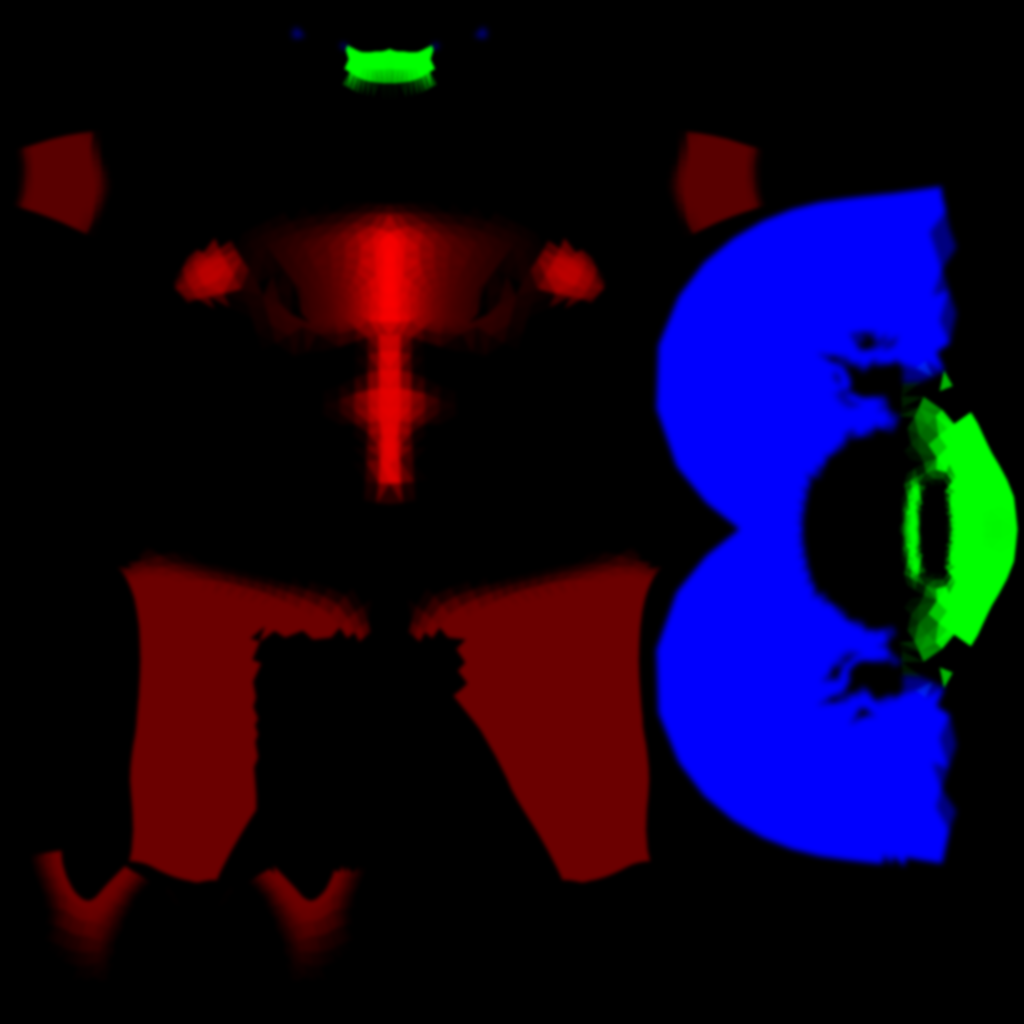
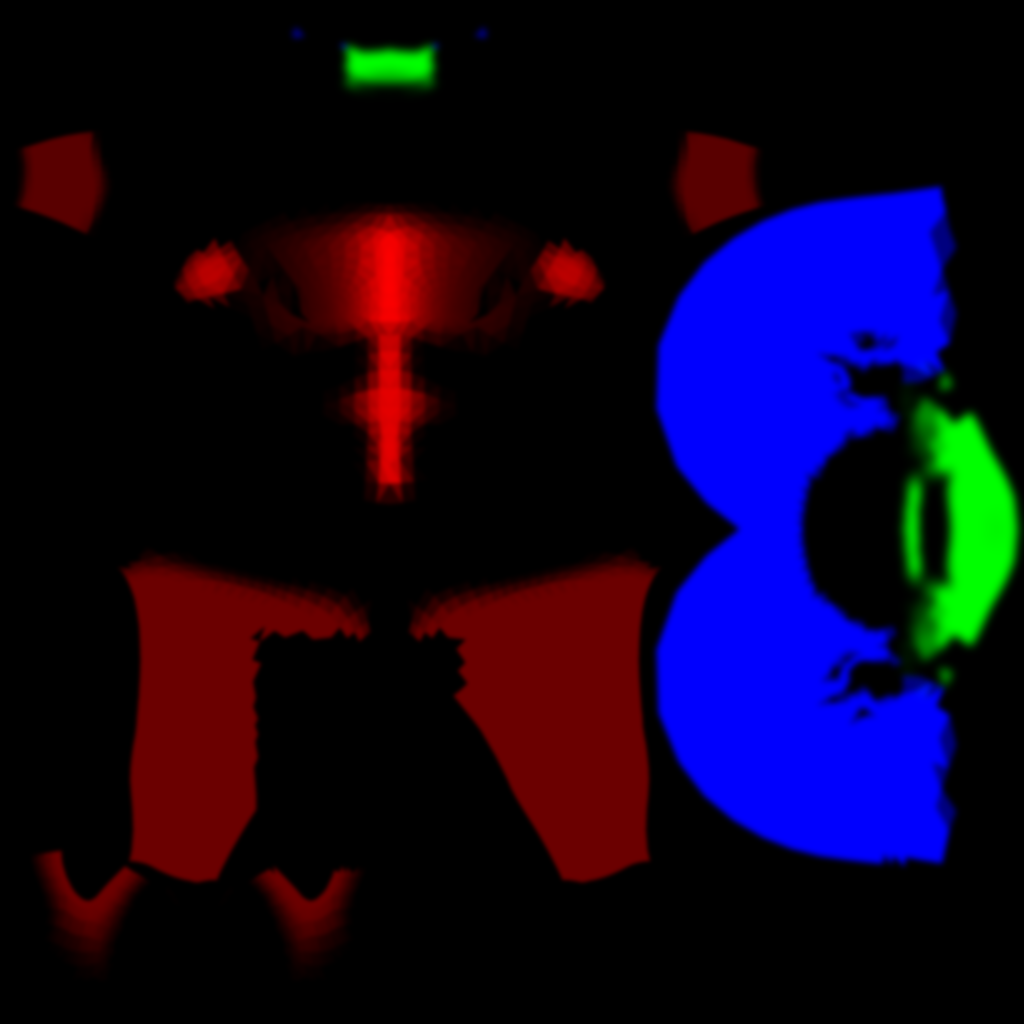
그래픽 최대 개선: 방 반사 탐침, 벽·바닥·커튼·밧줄 노멀맵, 대비 곡선, 아이라이트·각막 반사, 수염 지글거림 제거, 방 디테일(액자·스위치·콘센트)
Claude-Session: https://claude.ai/code/session_01NhCrPAAx57r2gVvWtmkJiC

Changed region(s): [[0.875, 0.3438, 0.9688, 0.6875], [0.3125, 0.0312, 0.4375, 0.0938], [0.9688, 0.4375, 1.0, 0.5938]]

diff --git a/web/js/room.js b/web/js/room.js
@@ -21,6 +21,15 @@ function photoTex(url, mat, repeat, key = 'map', mirror = true) {
   }, undefined, () => {});
 }
 
+// 노멀맵(tools/make_normals.py 로 사진에서 계산): 무늬·결·짜임이 빛에 따라 도드라진다
+// 노멀맵은 거울 반복을 쓰면 칸마다 요철 방향이 뒤집혀 줄무늬가 생긴다 → 일반 반복
+function normalTex(url, mat, repeat, scale = 1, mirror = false) {
+  new THREE.TextureLoader().load(url, (t) => {
+    t.wrapS = t.wrapT = mirror ? THREE.MirroredRepeatWrapping : THREE.RepeatWrapping; t.repeat.set(...repeat); t.anisotropy = 8;
+    mat.normalMap = t; mat.normalScale = new THREE.Vector2(scale, scale); mat.needsUpdate = true;
+  }, undefined, () => {});
+}
+
 export function makeRoom(scene) {
   const R = { group: new THREE.Group(), lights: {} };
   scene.add(R.group);
@@ -41,17 +50,17 @@ export function makeRoom(scene) {
       g.fillStyle = 'rgba(15,8,3,0.8)'; g.fillRect(0, (i * h) / rows, w, 2);
     }
   }, [2.5, 2.5]);
-  const floor = new THREE.Mesh(new THREE.PlaneGeometry(W, D), new THREE.MeshStandardMaterial({ map: floorTex, roughness: 0.62 }));
+  const floor = new THREE.Mesh(new THREE.PlaneGeometry(W, D), new THREE.MeshStandardMaterial({ map: floorTex, roughness: 0.4 }) /* 코팅된 마루: 램프와 창이 은은히 비친다 */);
   floor.rotation.x = -Math.PI / 2; floor.position.z = cz; floor.receiveShadow = true; R.group.add(floor);
-  photoTex('./assets/floor.webp', floor.material, [2.1, 3.6]);
+  photoTex('./assets/floor.webp', floor.material, [2.1, 3.6]); normalTex('./assets/floor_n.webp', floor.material, [2.1, 3.6], 0.6);
   // 벽지: 따뜻한 회색, 아주 옅은 세로 무늬
   const wallTex = canvasTex(512, 512, (g, w, h) => {
     g.fillStyle = '#b8aa98'; g.fillRect(0, 0, w, h);
     for (let x = 0; x < w; x += 16) { g.fillStyle = `rgba(255,255,255,${0.025 + (x % 64 === 0 ? 0.03 : 0)})`; g.fillRect(x, 0, 6, h); }
     for (let k = 0; k < 4000; k++) { g.fillStyle = `rgba(0,0,0,${rnd() * 0.04})`; g.fillRect(rnd() * w, rnd() * h, 1, 1); }
   }, [3, 1.5]);
-  const wallMat = new THREE.MeshStandardMaterial({ map: wallTex, roughness: 0.92 });
-  photoTex('./assets/wall.webp', wallMat, [3, 2.5]);
+  const wallMat = new THREE.MeshStandardMaterial({ map: wallTex, roughness: 0.92, color: new THREE.Color(0.86, 0.84, 0.83) }); // 따뜻한 조명에 벽이 노랗게 뜨지 않게
+  photoTex('./assets/wall.webp', wallMat, [3, 2.5]); normalTex('./assets/wall_n.webp', wallMat, [3, 2.5], 0.8);
   const wall = (w, x, z, ry) => { const m = new THREE.Mesh(new THREE.PlaneGeometry(w, H), wallMat); m.position.set(x, H / 2, z); m.rotation.y = ry; m.receiveShadow = true; R.group.add(m); return m; };
   wall(W, 0, cz - D / 2, 0); wall(W, 0, cz + D / 2, Math.PI); wall(D, -W / 2, cz, Math.PI / 2); wall(D, W / 2, cz, -Math.PI / 2);
   // 걸레받이
@@ -84,7 +93,7 @@ export function makeRoom(scene) {
   }
   // 커튼(반쯤 닫힘)
   const curtainTex = canvasTex(256, 256, (g, w, h) => { for (let x = 0; x < w; x++) { const v = 105 + 30 * Math.sin(x * 0.19) + 10 * Math.sin(x * 0.53); g.fillStyle = `rgb(${v * 0.7},${v * 0.55},${v * 0.48})`; g.fillRect(x, 0, 1, h); } });
-  const curtainMat = new THREE.MeshStandardMaterial({ map: curtainTex, roughness: 1, side: THREE.DoubleSide }); photoTex('./assets/curtain.webp', curtainMat, [0.6, 1.4]);
+  const curtainMat = new THREE.MeshStandardMaterial({ map: curtainTex, roughness: 1, side: THREE.DoubleSide }); photoTex('./assets/curtain.webp', curtainMat, [0.6, 1.4]); normalTex('./assets/curtain_n.webp', curtainMat, [0.6, 1.4], 1.0);
   const curtain = (x) => { const cm = curtainMat; const c = new THREE.Mesh(new THREE.PlaneGeometry(0.55, 1.95, 24, 1), cm); const p = c.geometry.attributes.position; for (let i = 0; i < p.count; i++) p.setZ(i, Math.sin(p.getX(i) * 28) * 0.03); c.geometry.computeVertexNormals(); c.position.set(x, 1.32, cz - D / 2 + 0.09); c.castShadow = true; R.group.add(c); };
   curtain(-1.62); curtain(-0.62);
   const moon = new THREE.DirectionalLight(0x6f8fd0, 0.25); moon.position.set(-1.0, 1.8, cz - D / 2 - 1); moon.target.position.set(0, 0, 0.5); R.group.add(moon, moon.target); R.lights.moon = moon;
@@ -111,6 +120,20 @@ export function makeRoom(scene) {
   const clkMat = new THREE.MeshStandardMaterial({ map: clockFace, roughness: 0.6 }); photoTex('./assets/clock.webp', clkMat, [1, 1], 'map', false);
   const clk = new THREE.Mesh(new THREE.CircleGeometry(0.17, 40), clkMat);
   clk.position.set(0.95, 2.0, cz - D / 2 + 0.02); R.group.add(clk);
+  // 생활 디테일: 결혼사진 액자(사용자 제작 lock.webp), 스위치·콘센트, 천장 등 받침
+  { const fr = new THREE.Mesh(new THREE.BoxGeometry(0.34, 0.46, 0.025), new THREE.MeshStandardMaterial({ color: 0x2a1d14, roughness: 0.45 }));
+    fr.position.set(1.62, 1.42, cz - D / 2 + 0.014); fr.castShadow = true; R.group.add(fr);
+    const ph = new THREE.Mesh(new THREE.PlaneGeometry(0.28, 0.4), new THREE.MeshPhysicalMaterial({ color: 0xffffff, roughness: 0.35, clearcoat: 0.6, clearcoatRoughness: 0.08 }));
+    ph.position.set(1.62, 1.42, cz - D / 2 + 0.028); R.group.add(ph);
+    photoTex('./assets/lock.webp', ph.material, [1, 0.8], 'map', false); // 세로 사진의 아래쪽(두 사람)만
+    R.photo = ph;
+    const plate = new THREE.MeshStandardMaterial({ color: 0xe8e2d6, roughness: 0.5 });
+    const sw = new THREE.Mesh(new THREE.BoxGeometry(0.08, 0.12, 0.012), plate); sw.position.set(W / 2 - 0.006, 1.2, cz + 1.4); sw.rotation.y = -Math.PI / 2; R.group.add(sw);
+    const tg = new THREE.Mesh(new THREE.BoxGeometry(0.03, 0.05, 0.012), plate); tg.position.set(W / 2 - 0.014, 1.2, cz + 1.4); tg.rotation.y = -Math.PI / 2; R.group.add(tg);
+    for (const [x, z, ry] of [[-W / 2 + 0.006, cz - 0.8, Math.PI / 2], [1.9, cz - D / 2 + 0.006, 0]]) {
+      const ou = new THREE.Mesh(new THREE.BoxGeometry(0.075, 0.075, 0.012), plate); ou.position.set(x, 0.3, z); ou.rotation.y = ry; R.group.add(ou);
+    }
+    const rose = new THREE.Mesh(new THREE.CylinderGeometry(0.07, 0.08, 0.02, 32), plate); rose.position.set(0.62, H - 0.01, -0.15); R.group.add(rose); }
   const hand = (len, w, c) => { const m = new THREE.Mesh(new THREE.BoxGeometry(w, len, 0.004), new THREE.MeshBasicMaterial({ color: c })); m.geometry.translate(0, len / 2, 0); m.position.set(0.95, 2.0, cz - D / 2 + 0.03); R.group.add(m); return m; };
   R.clockH = hand(0.09, 0.012, 0x222222); R.clockM = hand(0.115, 0.008, 0x222222);
   R.setClock = (min) => { const h = (min / 60) % 12; R.clockH.rotation.z = -(h / 12) * Math.PI * 2; R.clockM.rotation.z = -((min % 60) / 60) * Math.PI * 2; };
@@ -122,7 +145,7 @@ export function makeRoom(scene) {
   const stem = new THREE.Mesh(new THREE.CylinderGeometry(0.006, 0.006, 0.03, 8), metal); stem.position.set(0, H - 0.025, 0.02); R.group.add(stem);
   R.hookPoint = new THREE.Vector3(0, H - 0.09, 0.02);
   const ropeTex = canvasTex(64, 256, (g, w, h) => { g.fillStyle = '#b39b74'; g.fillRect(0, 0, w, h); for (let y = 0; y < h; y += 8) { g.strokeStyle = 'rgba(70,52,30,0.6)'; g.lineWidth = 3; g.beginPath(); g.moveTo(0, y); g.lineTo(w, y + 8); g.stroke(); } }, [1, 30]);
-  const ropeMat = new THREE.MeshStandardMaterial({ map: ropeTex, roughness: 0.95 }); photoTex('./assets/rope.webp', ropeMat, [10, 1]);
+  const ropeMat = new THREE.MeshStandardMaterial({ map: ropeTex, roughness: 0.95 }); photoTex('./assets/rope.webp', ropeMat, [10, 1]); normalTex('./assets/rope_n.webp', ropeMat, [10, 1], 1.4);
   let rope = null, wrap = null;
   R.updateRope = (wristMid, wristL, wristR) => {
     const top = R.hookPoint;

diff --git a/web/js/husband.js b/web/js/husband.js
@@ -64,15 +64,19 @@ export async function loadHusband(scene, { url = './assets/husband.glb', envTex 
     if (/^underwear\./.test(name)) { under[o.name.startsWith('bra') ? 'bra' : 'briefs'] = o; m.roughness = 0.85; m.color.setRGB(0.045, 0.045, 0.05); o.visible = false; }
     if (/^hair\./.test(name)) {
       // 머리카락: 결 방향으로 은은한 광(시엔)을 주는 물리 재질로 바꿔 덜 뭉쳐 보이게
-      const hp = new THREE.MeshPhysicalMaterial({ map: m.map, color: m.color, alphaTest: 0.12, alphaToCoverage: true, side: THREE.DoubleSide, roughness: 0.75, sheen: 0.0, sheenRoughness: 0.5, sheenColor: new THREE.Color(0.22, 0.19, 0.16), name: m.name });
+      const hp = new THREE.MeshPhysicalMaterial({ map: m.map, color: m.color, envMapIntensity: 0.15, specularIntensity: 0.35, alphaTest: 0.12, alphaToCoverage: true, side: THREE.DoubleSide, roughness: 0.75, sheen: 0.0, sheenRoughness: 0.5, sheenColor: new THREE.Color(0.22, 0.19, 0.16), name: m.name });
       hp.color.multiply(new THREE.Color(0.085, 0.078, 0.075)); // 참고 사진(01·02)처럼 짙은 흑발
+      // 머리 텍스처의 투명한 가장자리 색(파르스름)이 비치지 않게 색을 무채색 밝기로만 쓴다
+      hp.onBeforeCompile = (sh) => { sh.fragmentShader = sh.fragmentShader.replace('#include <color_fragment>', '#include <color_fragment>\n\tdiffuseColor.rgb = vec3( dot( diffuseColor.rgb, vec3( 0.3, 0.59, 0.11 ) ) ) * vec3( 1.0, 0.93, 0.86 );'); };
       if (/bob|long|ponytail|braid/.test(name)) hp.color.setRGB(0.2, 0.15, 0.12);
       o.material = hp;
       hair.push(o);
     } else if (/^(eyebrows|eyelashes)\./.test(name)) {
       m.transparent = true; m.depthWrite = false; m.alphaTest = 0.05; o.renderOrder = 2; o.castShadow = false;
     } else if (/^eyes\./.test(name)) {
-      m.alphaTest = 0.3; m.roughness = 0.08; m.color.multiply(new THREE.Color(0.72, 0.76, 0.8)); // 따뜻한 조명에서 붉게 뜨지 않게
+      // 눈: 물기 있는 각막(클리어코트)으로 반사점이 맺히게 → 눈에 생기가 돈다
+      const e = new THREE.MeshPhysicalMaterial({ map: m.map, color: m.color.clone().multiply(new THREE.Color(0.72, 0.76, 0.8)), alphaTest: 0.3, roughness: 0.25, clearcoat: 1, clearcoatRoughness: 0.03, envMapIntensity: 1.2, name: m.name });
+      o.material = e;
     } else if (/^(teeth|tongue)\./.test(name)) {
       m.envMapIntensity = 0.05; m.roughness = 0.5; m.color.multiply(new THREE.Color(0.7, 0.66, 0.6));
     } else if (/^clothes\./.test(name)) {
@@ -82,10 +86,10 @@ export async function loadHusband(scene, { url = './assets/husband.glb', envTex 
       // 셔츠·바지 천(사용자 제작 art/user/11·12): 원래 줄무늬 셔츠·청바지 무늬를 옅은 하늘색 옥스퍼드 셔츠·차콜 바지로 바꾼다. 신발은 그대로
       const fab = /suit/.test(name) ? (/top$/.test(o.name) ? 'fab_shirt' : /bottom$/.test(o.name) ? 'fab_trouser' : null) : null;
       if (fab) {
-        const c = m.clone(); o.material = c; if (fab === 'fab_trouser') c.color.setRGB(0.55, 0.55, 0.57); else c.color.setRGB(0.8, 0.8, 0.82);
+        const c = m.clone(); o.material = c; if (fab === 'fab_trouser') c.color.setRGB(0.55, 0.55, 0.57); else c.color.setRGB(0.66, 0.74, 0.92); // 따뜻한 조명 아래서도 하늘색이 남게
         // 펜던트 바로 아래라 밝은 천이 하얗게 타지 않게 밝은 쪽만 부드럽게 눌러 준다(색은 유지)
         c.onBeforeCompile = (sh) => { sh.fragmentShader = sh.fragmentShader.replace('#include <tonemapping_fragment>', '{ float L = max( max( gl_FragColor.r, gl_FragColor.g ), gl_FragColor.b ); if ( L > 0.0 ) gl_FragColor.rgb *= ( 1.7 * L / ( 1.0 + 1.7 * L ) ) / L; }\n#include <tonemapping_fragment>'); };
-        new THREE.TextureLoader().load(vq(`./assets/${fab}.webp`), (t) => { t.colorSpace = THREE.SRGBColorSpace; t.flipY = false; t.wrapS = t.wrapT = THREE.MirroredRepeatWrapping; const rp = fab === 'fab_trouser' ? 7 : 5; t.repeat.set(rp, rp); t.anisotropy = 8; c.map = t; c.needsUpdate = true; }, undefined, () => {});
+        new THREE.TextureLoader().load(vq(`./assets/${fab}.webp`), (t) => { t.colorSpace = THREE.SRGBColorSpace; t.flipY = false; t.wrapS = t.wrapT = THREE.MirroredRepeatWrapping; const rp = fab === 'fab_trouser' ? 4 : 2.5; t.repeat.set(rp, rp); t.anisotropy = 8; c.map = t; c.needsUpdate = true; }, undefined, () => {}); // 촘촘하면 멀리서 짜임이 가로 줄무늬(모아레)로 보인다
       }
     } else if (/^body\./.test(name)) {
       const p = new THREE.MeshPhysicalMaterial({
@@ -95,7 +99,7 @@ export async function loadHusband(scene, { url = './assets/husband.glb', envTex 
       p.name = name;
       // 모공 요철(사용자 제공 art/user/03 에서 만든 노멀맵). 몸 UV 를 촘촘히 반복한다
       p.normalScale = new THREE.Vector2(0.65, 0.65);
-      new THREE.TextureLoader().load(vq('./assets/skin_pore_n.webp'), (t) => { t.wrapS = t.wrapT = THREE.MirroredRepeatWrapping; t.repeat.set(36, 24); t.anisotropy = 8; p.normalMap = t; p.needsUpdate = true; }, undefined, () => {});
+      new THREE.TextureLoader().load(vq('./assets/skin_pore_n.webp'), (t) => { t.wrapS = t.wrapT = THREE.RepeatWrapping; t.repeat.set(36, 24); t.anisotropy = 8; p.normalMap = t; p.needsUpdate = true; }, undefined, () => {});
       if (envTex) { p.envMap = envTex; p.envMapIntensity = 0.5; }
       p.onBeforeCompile = (sh) => {
         Object.assign(sh.uniforms, { uRed: U.red, uRedK: U.redK, uPale: U.pale, uWet: U.wet, uBruise: U.bruise, uWear: U.wear, uAgeMap: U.ageMap, uAgeK: U.ageK, uPore: U_PORE, uHair: U.hair, uHairK: U.hairK, uBeardK: U.beardK, uHairGrey: U.hairGrey, uSweat: U.sweat, uScalp: U.scalp, uCav: U.cav });

diff --git a/web/js/main.js b/web/js/main.js
@@ -43,6 +43,10 @@ const camera = new THREE.PerspectiveCamera(48, innerWidth / innerHeight, 0.03, 4
 const fitFov = (aspect) => (aspect >= 1 ? 48 : Math.min(48 * 1.45, (2 * Math.atan(Math.tan((48 * Math.PI) / 360) / aspect) * 180) / Math.PI));
 addEventListener('resize', () => { renderer.setSize(innerWidth, innerHeight); post.resize(); camera.aspect = innerWidth / innerHeight; camera.fov = fitFov(camera.aspect); camera.updateProjectionMatrix(); layoutSub(); });
 camera.fov = fitFov(innerWidth / innerHeight); camera.updateProjectionMatrix();
+// 카메라에 붙은 약한 보조광(영화 촬영의 아이라이트): 위에서 내리꽂는 조명에 가려진 얼굴을 살짝 살리고 눈에 반사점을 만든다
+const eyeLight = new THREE.PointLight(0xffe9d8, 0.9, 3.5, 2);
+eyeLight.position.set(0.05, 0.08, 0);
+camera.add(eyeLight); scene.add(camera);
 // 화면 처리(화질): ?gfx=high|low|off 가 우선, 다음은 저장값, 없으면 기기에 맞춰
 const post = makePost(renderer, scene, camera);
 const GFX = ['high', 'low', 'off'];
@@ -64,6 +68,21 @@ function guardPerf(dt) {
 
 THREE.DefaultLoadingManager.onProgress = (url, n, total) => { $('go').textContent = `${t('loading')} ${Math.round((n / Math.max(1, total)) * 100)}%`; };
 const room = makeRoom(scene);
+// 반사 탐침: 방이 다 그려진 뒤 방 안에서 사방을 찍어 주변광·반사로 쓴다(남편·손은 빼고).
+// 기본 스튜디오 조명(RoomEnvironment) 대신 실제 방의 따뜻한 빛과 어두운 구석이 피부·눈·바닥에 비친다
+function captureProbe() {
+  if (!H) return;
+  const hid = [H.root, A && (A.root || A.group)].filter(Boolean).map((o) => [o, o.visible]);
+  hid.forEach(([o]) => (o.visible = false));
+  const gen = new THREE.PMREMGenerator(renderer);
+  const probe = gen.fromScene(scene, 0.03, 0.05, 30, { size: 256, position: new THREE.Vector3(0, 1.45, 0.4) }).texture;
+  gen.dispose();
+  hid.forEach(([o, v]) => (o.visible = v));
+  scene.traverse((o) => { const ms = Array.isArray(o.material) ? o.material : o.material ? [o.material] : []; for (const m of ms) if ('envMap' in m && (m.envMap === envTex || m.envMap === probeTex)) { m.userData.envI0 ??= m.envMapIntensity; m.envMapIntensity = m.userData.envI0 * 0.5; m.envMap = probe; m.needsUpdate = true; } }); // 방 빛은 이미 직접광으로도 들어오므로 반사는 절반만
+  if (probeTex) probeTex.dispose();
+  probeTex = probe; scene.environment = probe; scene.environmentIntensity = 0.16;
+}
+let probeTex = null;
 const [H, A] = await Promise.all([
   loadHusband(scene, { url: './assets/husband.glb', envTex, faces, ageTex: './assets/skin_mid_m.webp' }),
   loadArms(scene, camera, { url: './assets/wife.glb', envTex, ring: true }),
@@ -442,7 +461,7 @@ async function epilogue(kind) {
   await wait(1.2);
   let skip = false; $('skip').onclick = () => { skip = true; if (skipWait) skipWait(); };
   // 장면 꾸미기: 아침 빛, 묶인 사람·줄·소품은 치운다
-  room.setMorning(true); AU.setAmbient('morning'); AU.bgm(kind === 'apart' ? 'lonely' : 'morning');
+  room.setMorning(true); setTimeout(captureProbe, 300); AU.setAmbient('morning'); AU.bgm(kind === 'apart' ? 'lonely' : 'morning');
   H.root.visible = false; room.setRopeVisible(false); A.root.visible = false;
   for (const o of [toolboxObj, recorderObj]) if (o) o.visible = false;
   const extras = [];
@@ -573,6 +592,7 @@ else renderer.setAnimationLoop(() => { const now = performance.now(); const raw 
 window.__act = (id, arg) => perform(id, arg);
 window.__G = () => G;
 window.__H = () => H;
+window.__R = () => renderer;
 window.__view = (v) => setView(v, 50);
 window.__clip = (name, ...a) => runClip(C[name](...a));
 window.__begin = begin;
@@ -580,4 +600,7 @@ window.__epi = (k) => epilogue(k);
 window.__dbg = () => ({ clip: !!A.clip, t: A.t, view, cam: camera.position.toArray().map((x) => +x.toFixed(2)), hr: A.bones.hand_r.getWorldPosition(new THREE.Vector3()).toArray().map((x) => +x.toFixed(2)), cheek: H.point("cheekL").toArray().map((x) => +x.toFixed(2)), eyes: H.point("eyes").toArray().map((x) => +x.toFixed(2)), vis: A.root.visible, sh: A.bones.upperarm_r.getWorldPosition(new THREE.Vector3()).toArray().map((x) => +x.toFixed(2)), el: A.bones.lowerarm_r.getWorldPosition(new THREE.Vector3()).toArray().map((x) => +x.toFixed(2)), root: A.root.position.toArray().map((x) => +x.toFixed(2)) });
 $('go').disabled = false; $('go').textContent = t('start');
 if (q.has('step')) window.__step(2);
+// 방 사진 질감이 다 읽힌 뒤 반사 탐침을 찍는다(아침 장면이 되면 다시)
+THREE.DefaultLoadingManager.onLoad = () => captureProbe();
+setTimeout(captureProbe, 2500);
 window.__ready = true;

diff --git a/web/index.html b/web/index.html
@@ -278,7 +278,7 @@
   @media (prefers-reduced-motion: reduce) { *, *::before, *::after { animation: none !important; transition: none !important; } }
 </style>
 <script type="importmap">
-{ "imports": { "three": "./lib/three/build/three.module.js", "three/addons/": "./lib/three/examples/jsm/", "./js/version.js": "./js/version.js?v=20261114-0942", "./js/rig.js": "./js/rig.js?v=20261114-0942", "./js/lipsync.js": "./js/lipsync.js?v=20261114-0942", "./js/husband.js": "./js/husband.js?v=20261114-0942", "./js/arms.js": "./js/arms.js?v=20261114-0942", "./js/room.js": "./js/room.js?v=20261114-0942", "./js/post.js": "./js/post.js?v=20261114-0942", "./js/fur.js": "./js/fur.js?v=20261114-0942", "./js/props.js": "./js/props.js?v=20261114-0942", "./js/audio.js": "./js/audio.js?v=20261114-0942", "./js/i18n.js": "./js/i18n.js?v=20261114-0942", "./js/game.js": "./js/game.js?v=20261114-0942", "./js/clips.js": "./js/clips.js?v=20261114-0942", "./js/main.js": "./js/main.js?v=20261114-0942" } }
+{ "imports": { "three": "./lib/three/build/three.module.js", "three/addons/": "./lib/three/examples/jsm/", "./js/version.js": "./js/version.js?v=20261114-1350", "./js/rig.js": "./js/rig.js?v=20261114-1350", "./js/lipsync.js": "./js/lipsync.js?v=20261114-1350", "./js/husband.js": "./js/husband.js?v=20261114-1350", "./js/arms.js": "./js/arms.js?v=20261114-1350", "./js/room.js": "./js/room.js?v=20261114-1350", "./js/post.js": "./js/post.js?v=20261114-1350", "./js/fur.js": "./js/fur.js?v=20261114-1350", "./js/props.js": "./js/props.js?v=20261114-1350", "./js/audio.js": "./js/audio.js?v=20261114-1350", "./js/i18n.js": "./js/i18n.js?v=20261114-1350", "./js/game.js": "./js/game.js?v=20261114-1350", "./js/clips.js": "./js/clips.js?v=20261114-1350", "./js/main.js": "./js/main.js?v=20261114-1350" } }
 </script>
 </head>
 <body>
@@ -318,6 +318,6 @@
   <div class="go"><button id="go" disabled>…</button><button id="resume" hidden></button></div>
   <p class="fiction" data-t="fiction"></p>
 </div></div>
-<script type="module" src="./js/main.js?v=20261114-0942"></script>
+<script type="module" src="./js/main.js?v=20261114-1350"></script>
 </body>
 </html>

diff --git a/web/js/fur.js b/web/js/fur.js
@@ -70,13 +70,17 @@ float furA = 1.0;`)
 	  float freq = 900.0 + 900.0 * dd.g;               // 수염은 더 촘촘하고 가늘게
 	  vec2 c = vFurUv * freq; vec2 ci = floor( c ); vec2 cf = fract( c ) - 0.5;
 	  float rn = fh( ci );
-	  if ( rn > dens ) discard;
 	  vec2 o = ( vec2( fh( ci + 1.7 ), fh( ci + 9.2 ) ) - 0.5 ) * 0.35;
 	  float r = 0.36 * ( 1.0 - uLayer * 0.9 );       // 끝으로 갈수록 가늘다
 	  float e = length( cf - o ) - r;
 	  float aa = max( fwidth( e ), 1e-4 );
-	  furA = 1.0 - smoothstep( -aa, aa, e );          // 가장자리를 부드럽게(MSAA 알파 커버리지)
-	  if ( furA <= 0.01 ) discard; }`)
+	  float strand = ( rn > dens ? 0.0 : 1.0 ) * ( 1.0 - smoothstep( -aa, aa, e ) );
+	  // 가닥이 화소보다 작아지는 거리에서는 낱가닥 대신 평균 덮임으로(소금·후추처럼 지글거리지 않게)
+	  float px = length( fwidth( c ) );
+	  vec2 nc = floor( c * 0.08 ); float nz = mix( fh( nc ), fh( nc + 1.0 ), 0.5 );
+	  float avg = min( 1.0, dens * 3.14159 * r * r * 1.7 * ( 0.55 + 0.9 * nz ) ); // 얼룩지게(고른 칠처럼 보이지 않게)
+	  furA = mix( strand, avg, smoothstep( 0.7, 1.4, px ) );
+	  if ( furA <= 0.02 ) discard; }`)
           .replace('#include <color_fragment>', `#include <color_fragment>
 	diffuseColor.rgb = mix( diffuseColor.rgb, vec3( 0.32, 0.3, 0.28 ), uHairGrey );
 	diffuseColor.rgb *= mix( 0.45, 1.15, uLayer );    // 뿌리 쪽은 그늘

diff --git a/web/js/post.js b/web/js/post.js
@@ -20,6 +20,8 @@ const FilmShader = {
       // 어두운 곳은 살짝 차갑게, 밝은 곳은 따뜻하게(필름 느낌)
       float l = dot( c, vec3( 0.299, 0.587, 0.114 ) );
       c = mix( c * vec3( 0.97, 1.0, 1.04 ), c * vec3( 1.03, 1.0, 0.95 ), smoothstep( 0.15, 0.7, l ) );
+      // 대비 곡선(S자): 어두운 곳은 더 깊게, 밝은 곳은 또렷하게
+      c = mix( c, c * c * ( 3.0 - 2.0 * c ), 0.38 );
       // 그레인: 중간 밝기에서 가장 보인다
       float g = h( floor( vUv * uRes ) + fract( uTime * 7.31 ) * 97.0 ) - 0.5;
       c += g * uGrain * ( 0.35 + 0.65 * ( 1.0 - abs( l - 0.45 ) * 1.6 ) );

diff --git a/tools/make_normals.py b/tools/make_normals.py
@@ -1,0 +1,23 @@
+#!/usr/bin/env python3
+"""사진 질감(밝기)을 높이로 보고 노멀맵을 만든다: 벽지 무늬·나무 결·천 짜임·밧줄 꼬임이 빛에 따라 도드라지게.
+사용: python3 -I tools/make_normals.py  (art/user 원본 → web/assets/*_n.webp)"""
+import numpy as np
+from PIL import Image, ImageFilter
+JOBS = [  # 원본, 출력, 크기, 세기, 큰 얼룩을 지울 흐림 반경
+    ('art/user/04.png', 'wall_n.webp', (1024, 683), 4.0, 24),
+    ('art/user/05.png', 'floor_n.webp', (1024, 683), 3.0, 30),
+    ('art/user/06.png', 'curtain_n.webp', (1024, 683), 5.0, 12),
+]
+def rope():
+    im = Image.open('art/user/07.png').convert('L').crop((36, 0, 100, 1024)).rotate(90, expand=True).resize((512, 32), Image.LANCZOS)
+    return im
+for src, dst, size, k, blur in JOBS + [(None, 'rope_n.webp', (512, 32), 6.0, 4)]:
+    g = (rope() if src is None else Image.open(src).convert('L').resize(size, Image.LANCZOS))
+    h = np.asarray(g).astype(float) / 255
+    low = np.asarray(g.filter(ImageFilter.GaussianBlur(blur))).astype(float) / 255
+    h = h - low
+    dx = (np.roll(h, -1, 1) - np.roll(h, 1, 1)) * k
+    dy = (np.roll(h, -1, 0) - np.roll(h, 1, 0)) * k
+    n = np.dstack([-dx, dy, np.ones_like(h)]); n /= np.linalg.norm(n, axis=2, keepdims=True)
+    Image.fromarray(((n * 0.5 + 0.5) * 255).astype(np.uint8)).save('web/assets/' + dst, 'WEBP', quality=88)
+    print(dst)
